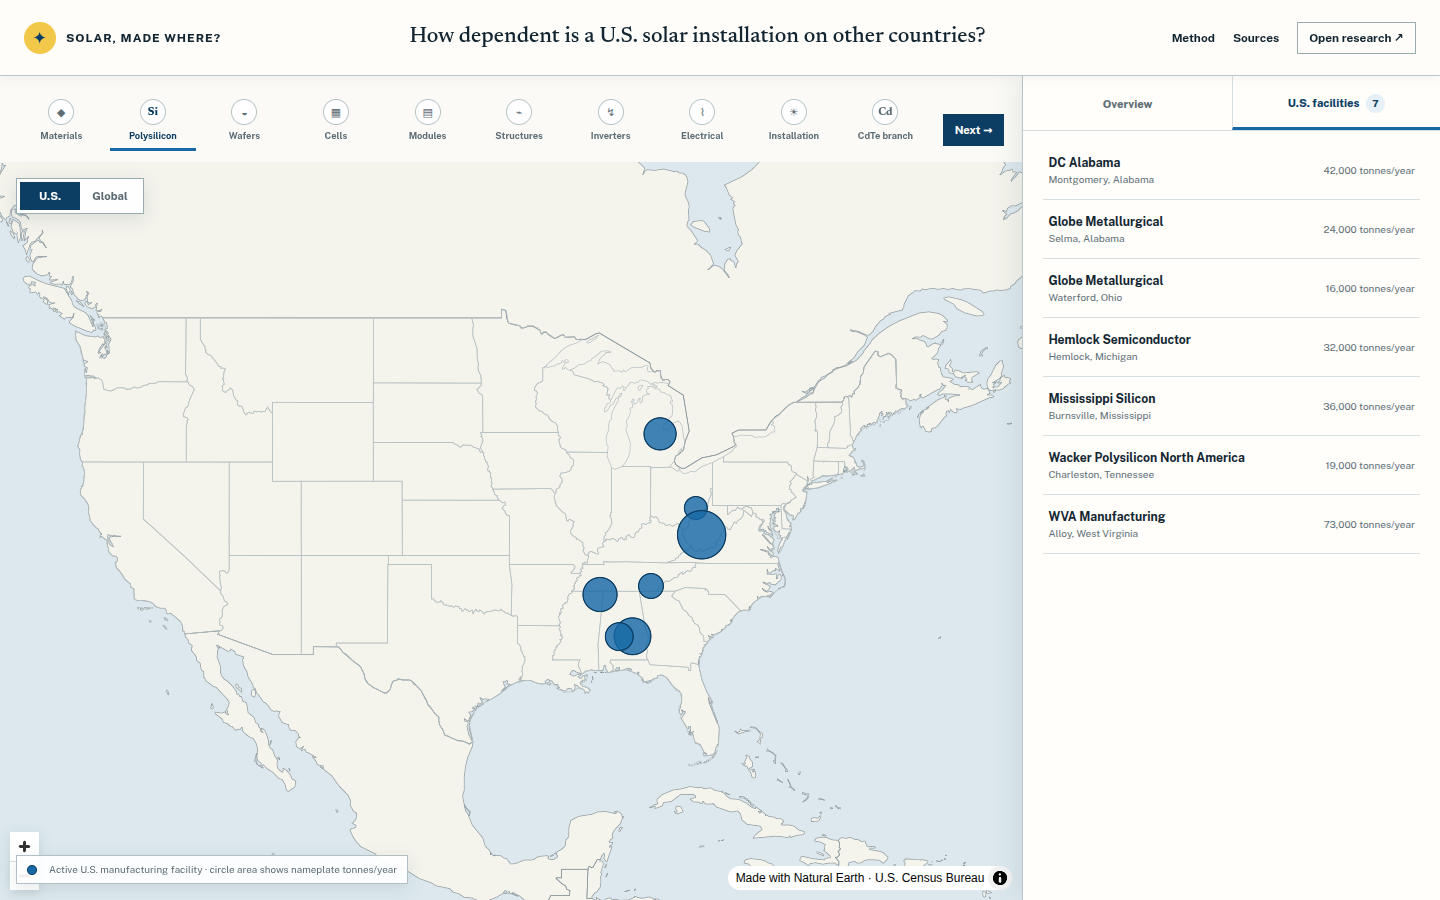
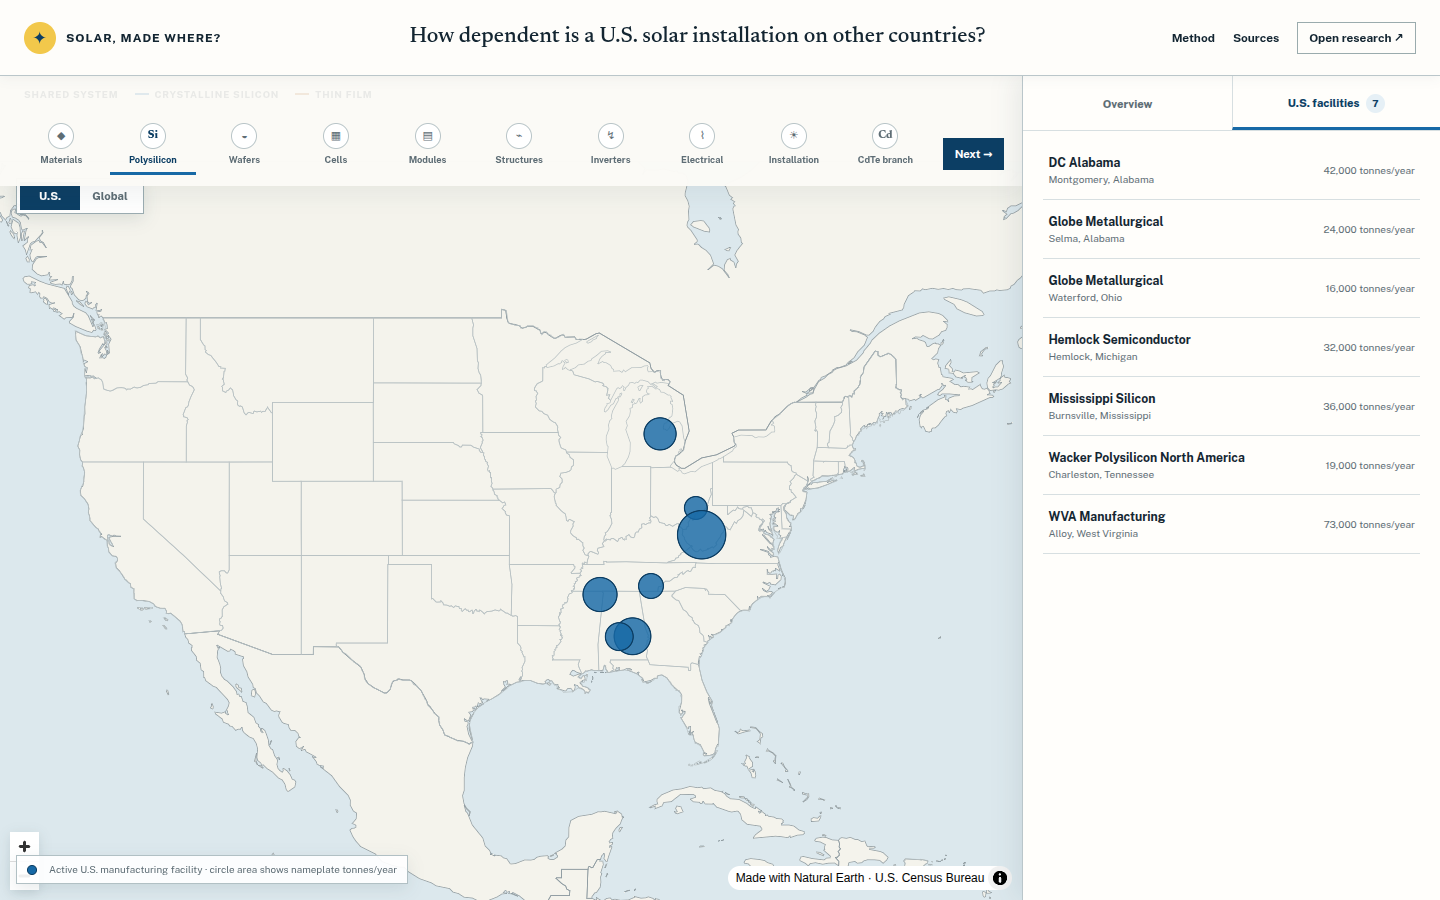
test: ignore local worktrees during verification

diff --git a/vite.config.ts b/vite.config.ts
@@ -7,6 +7,6 @@ export default defineConfig({
     environment: "jsdom",
     globals: true,
     setupFiles: ["./src/test/setup.ts"],
-    exclude: [...configDefaults.exclude, "e2e/**"],
+    exclude: [...configDefaults.exclude, "e2e/**", ".worktrees/**"],
   },
 });
